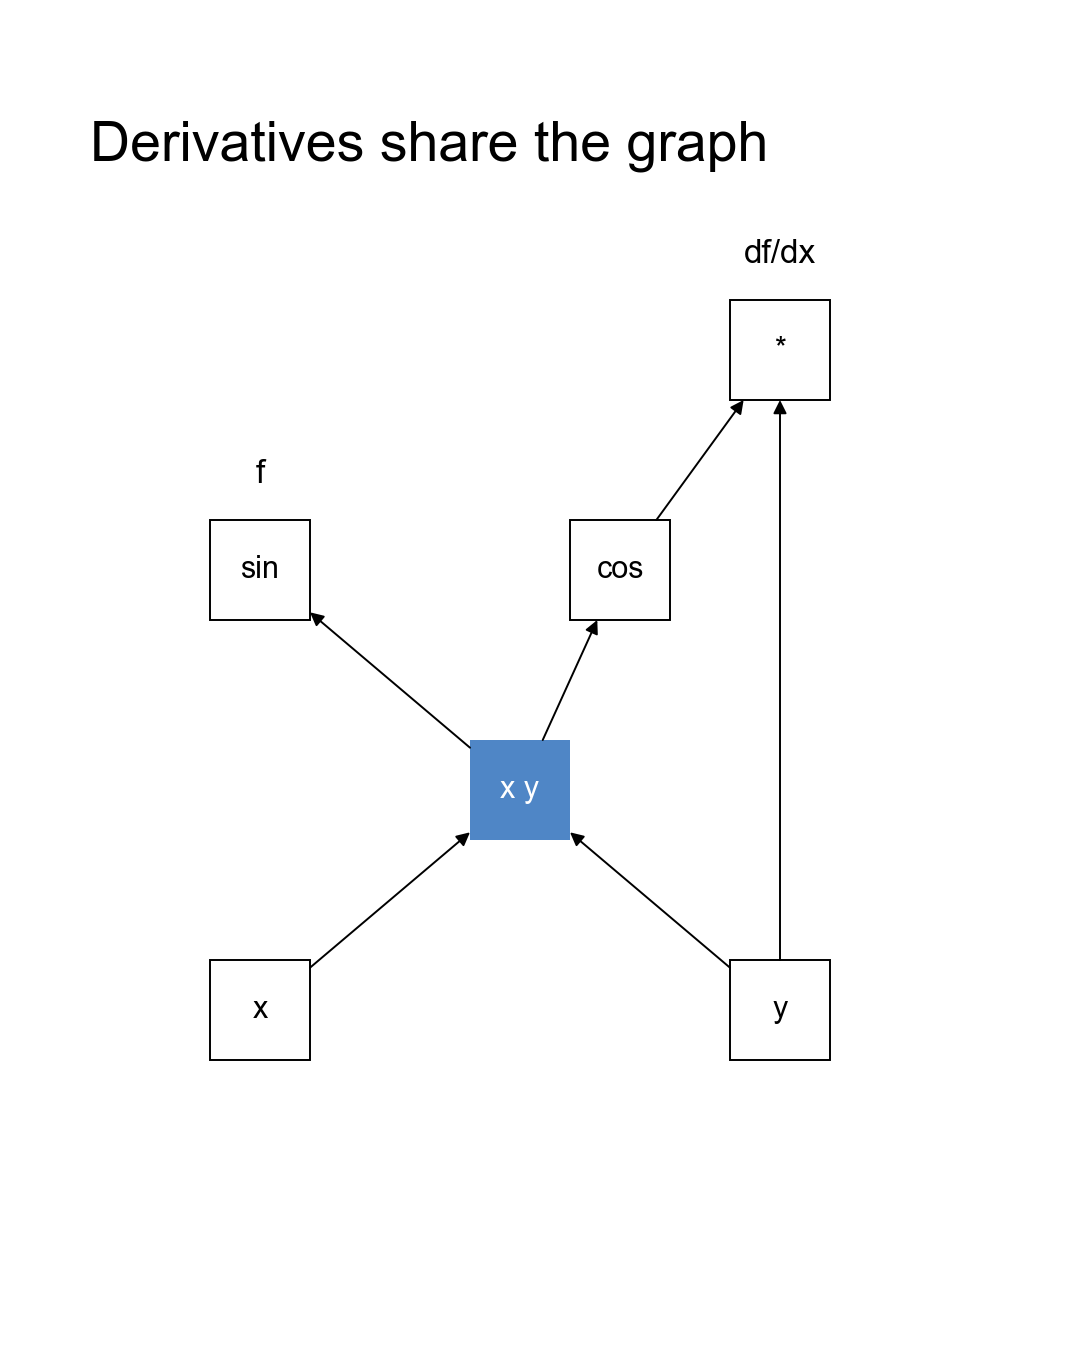
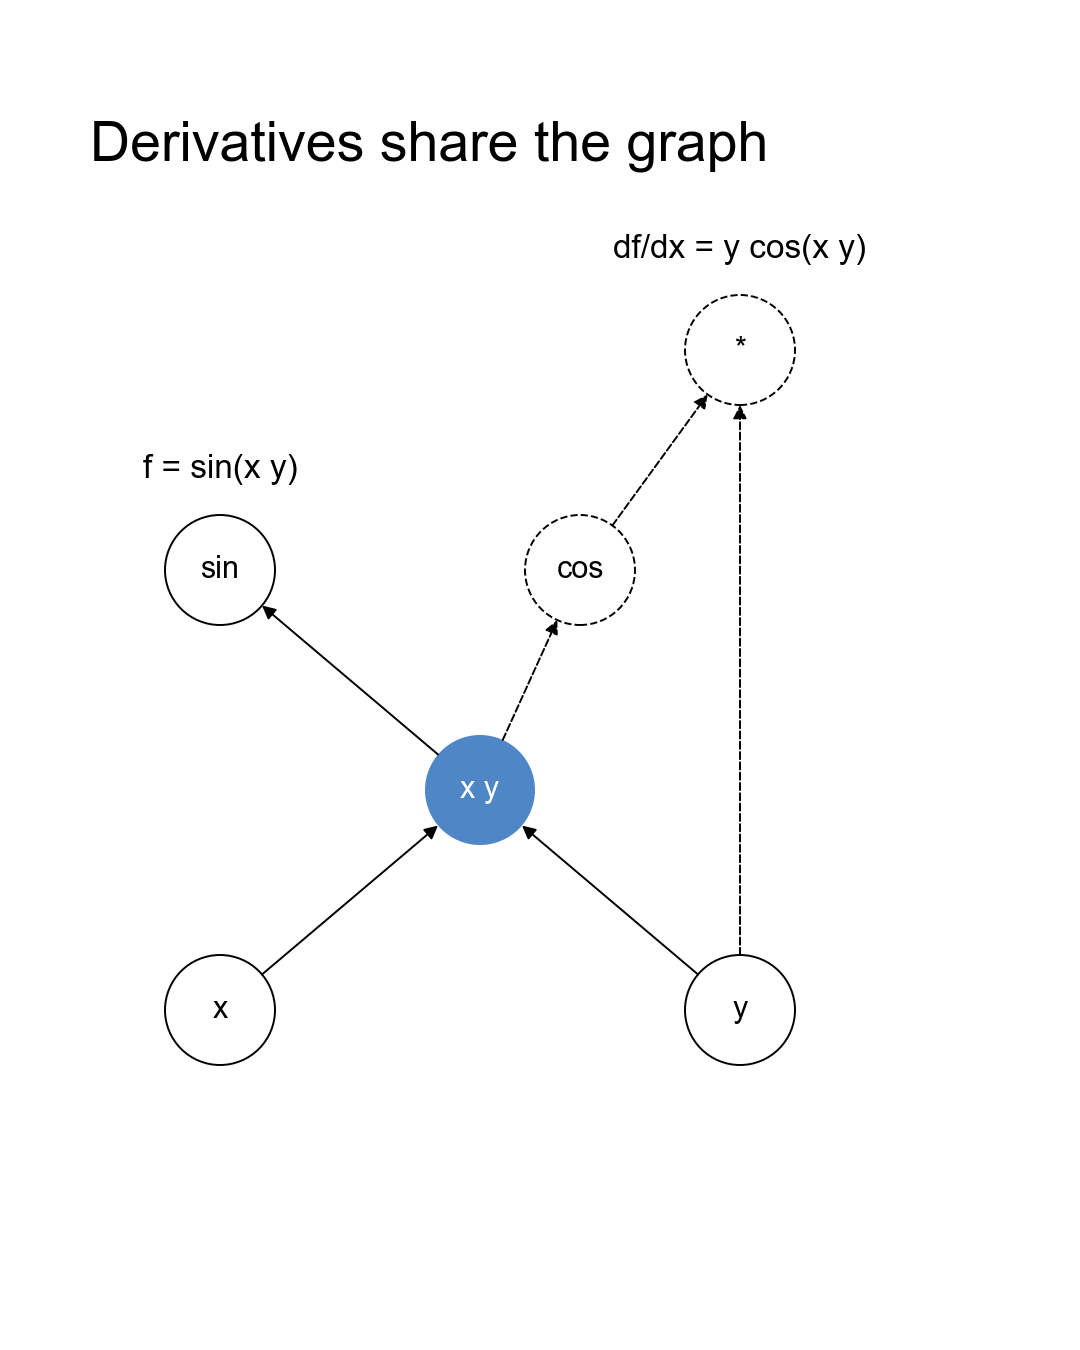
Derivative card: circles, the function and its derivative written out, the derivative's nodes dashed

diff --git a/docs/social/make.py b/docs/social/make.py
@@ -13,7 +13,7 @@ import matplotlib
 matplotlib.use("Agg")
 import matplotlib.pyplot as plt
 import numpy as np
-from matplotlib.patches import Rectangle
+from matplotlib.patches import Circle, Rectangle
 
 HERE = os.path.dirname(os.path.abspath(__file__))
 DATA = os.path.join(HERE, "..", "bench", "data")
@@ -46,10 +46,10 @@ def box(ax, x, y, w, h, label="", filled=False, size=20):
                 fontsize=size, ha="center", va="center")
 
 
-def arrow(ax, a, b):
+def arrow(ax, a, b, ls="-"):
     ax.annotate("", xy=b, xytext=a,
                 arrowprops=dict(arrowstyle="-|>", color=INK, lw=LW, mutation_scale=20,
-                                shrinkA=0, shrinkB=0))
+                                shrinkA=0, shrinkB=0, linestyle=ls))
 
 
 def save(fig, name):
@@ -94,28 +94,35 @@ def pipeline():
 
 
 def derivative():
+    """f = sin(xy) and df/dx = y cos(xy) in one graph: the derivative's own
+    nodes dashed, the node both read in the accent."""
     fig, ax = card("Derivatives share the graph")
-    s = 1.0
+    r = 0.55
     nodes = {
-        "x": (2.6, 3.4), "y": (7.8, 3.4),
-        "xy": (5.2, 5.6),
-        "sin": (2.6, 7.8), "cos": (6.2, 7.8),
-        "mul": (7.8, 10.0),
+        "x": (2.2, 3.4), "y": (7.4, 3.4),
+        "xy": (4.8, 5.6),
+        "sin": (2.2, 7.8), "cos": (5.8, 7.8),
+        "mul": (7.4, 10.0),
     }
     labels = {"x": "x", "y": "y", "xy": "x y", "sin": "sin", "cos": "cos", "mul": "*"}
+    derived = {"cos", "mul"}
     for k, (cx, cy) in nodes.items():
-        box(ax, cx - s / 2, cy - s / 2, s, s, labels[k], filled=k == "xy", size=22)
+        shared = k == "xy"
+        ax.add_patch(Circle((cx, cy), r, fc=ACCENT if shared else PAPER,
+                            ec="none" if shared else INK, lw=LW,
+                            ls="--" if k in derived else "-"))
+        ax.text(cx, cy, labels[k], color=PAPER if shared else INK, fontsize=22,
+                ha="center", va="center")
     for a, b in [("x", "xy"), ("y", "xy"), ("xy", "sin"), ("xy", "cos"), ("cos", "mul"),
                  ("y", "mul")]:
         (ax_, ay), (bx, by) = nodes[a], nodes[b]
         d = np.array([bx - ax_, by - ay])
         d /= np.linalg.norm(d)
-        # from the edge of one box to the edge of the other
-        t = s / 2 / max(abs(d[0]), abs(d[1]))
-        arrow(ax, (ax_ + d[0] * t, ay + d[1] * t), (bx - d[0] * t, by - d[1] * t))
-    for k, name in [("sin", "f"), ("mul", "df/dx")]:
+        arrow(ax, (ax_ + d[0] * r, ay + d[1] * r), (bx - d[0] * r, by - d[1] * r),
+              ls="--" if b in derived else "-")
+    for k, name in [("sin", "f = sin(x y)"), ("mul", "df/dx = y cos(x y)")]:
         cx, cy = nodes[k]
-        ax.text(cx, cy + s / 2 + 0.3, name, color=INK, fontsize=24, ha="center", va="bottom")
+        ax.text(cx, cy + r + 0.3, name, color=INK, fontsize=24, ha="center", va="bottom")
     save(fig, "derivative.png")
 
 
